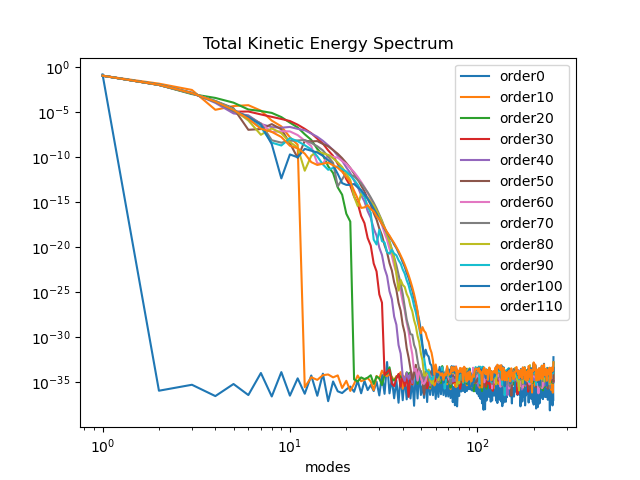
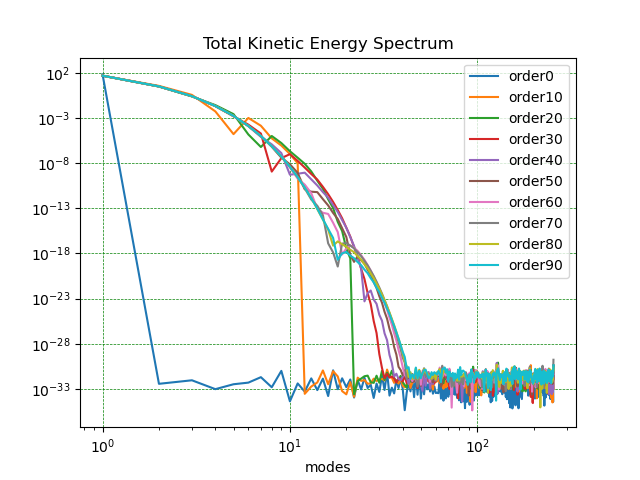
updated to proper H, h_e, Ah, etc

diff --git a/ekman_plotting_analysis.py b/ekman_plotting_analysis.py
@@ -8,12 +8,12 @@ import sys
 from scipy.fft import fft, fftfreq
 from contextlib import suppress
 
-N=120
+N=100
 nx = 512  # fourier resolution
-nz = 512  # chebyshev resolution
+nz = 68  # chebyshev resolution
 
-H = 10  # depth of water in meters
-h_e = 1 #ekman thickness
+H = 200  # depth of water in meters
+h_e = 20 #ekman thickness
 dh = h_e/H  # dh = ekman thickness divided by H
 da = 0.01  # aspect ratio = ratio of height to length
 f = 1e-4  # coriolis param in 1/s
@@ -41,7 +41,7 @@ max_vals = np.zeros(N + 1)
 for i in range(N+1):
     folder_n = 'out_' + str(i) + '_n'
 
-    with h5py.File(folder_n + '/' + folder_n + '_s1/' + folder_n + '_s1_p0.h5',
+    with h5py.File('Re_big/' + folder_n + '/' + folder_n + '_s1/' + folder_n + '_s1_p0.h5',
                    mode='r') as file:  # reading file
 
         psi_arr[i, :, :] = np.array(file['tasks']['<psi>'])  # psi
@@ -103,7 +103,7 @@ KE_total = lambda k: (fft_out(u_slice(k))[int(nx / 2 + 1):] + fft_out(w_slice(k)
 #conj_power_psi = lambda i: np.conj(np.fft.fftshift(np.fft.fftn(np.fft.ifftshift(psi_slice(i)))))
 
 
-orders_plt=np.arange(0,120,10)
+orders_plt=np.arange(0,N)
 
 #orders_plt=20
 #plt.loglog(np.arange(1, int(nx/2)), fft_out(psi_slice(orders_plt))[int(nx/2 + 1):], label='order' + str(orders_plt))
@@ -113,13 +113,17 @@ for k in orders_plt:
     #plt.loglog(np.arange(1,int(nx/2)), fft_out(zeta_slice(k))[int(nx/2 + 1):], label='order' + str(k))
     #plt.loglog(np.arange(1, int(nx / 2)), (fft_out(w_slice(k))[int(nx / 2 + 1):])/2, label='order' + str(k))
     #plt.loglog(np.arange(1, int(nx / 2)), (fft_out(u_slice(k))[int(nx / 2 + 1):]) / 2, label='order' + str(k))
-    plt.plot(np.arange(1, int(nx / 2)), KE_total(k), label='order' + str(k))
+    plt.plot(np.arange(0, 512), u_slice(k), label='order' + str(k))
+    #plt.plot(np.arange(1, int(nx / 2)), KE_total(k), label='order' + str(k))
 
     #plt.plot(np.arange(0,int(nx/2)),(DFT(psi_slice(k)) * np.conj(DFT(psi_slice(k)))))
 
-plt.yscale('log')
-plt.xlabel('modes')
-plt.title("Total Kinetic Energy Spectrum")
-plt.legend()
-plt.savefig('KE_psd_notlog')
+#plt.yscale('log')
+plt.ylabel('streamfunction strength (kg/ms)')
+plt.xlabel('x-grid points')
+plt.grid(color='green', linestyle='--', linewidth=0.5)
+#plt.title("Total Kinetic Energy Spectrum")
+plt.title("$\psi_{max}$ Horizontal Slice for orders n $\in$ [0,100]")
+#plt.legend()
+plt.savefig('KE_all')
 plt.show()

diff --git a/order_n_time_dependent_d2.py b/order_n_time_dependent_d2.py
@@ -31,8 +31,8 @@ from dedalus.extras import flow_tools
 from dedalus.tools import post
 import logging
 
-#run_folder = 'Re_big/ivp/snapshots' #for runs with no noise
-run_folder = 'Re_big/ivp/noise/snapshots'
+run_folder = 'Re_big/ivp/snapshots' #for runs with no noise
+#run_folder = 'Re_big/ivp/noise/snapshots'
 
 folder_n = run_folder
 folder_n_sub = 'snapshots'
@@ -53,8 +53,8 @@ n_core = int(1)
 nx = 512 # fourier resolution
 nz = 68  # chebyshev resolution
 
-H = 200  # depth of water in meters
-h_e = 20 #ekman thickness
+H = 100  # depth of water in meters
+h_e = 10 #ekman thickness
 dh = h_e/H  # dh = ekman thickness divided by H
 da = 0.01  # aspect ratio = ratio of height to length
 f = 1e-4  # coriolis param in 1/s
@@ -73,7 +73,7 @@ dt = 1000
 max_dt = 1e5
 min_dt = 0
 
-stop_sim_time=6 * 1e4
+stop_sim_time=4 * 1e4
 #stop_sim_time=2 * 1e4
 fh_mode = 'overwrite'
 
@@ -184,8 +184,8 @@ rand = np.random.RandomState(seed=42)
 noise = rand.standard_normal(gshape)[slices]
 zb, zt = z_basis.interval
 #v['g'][0] = 1/2 + 1/2 * (np.tanh((z-0.5)/0.1) - np.tanh((z+0.5)/0.1))
-pert = 1e-3 * noise * (zt - z) * (z - zb) #noise
-v['g'] +=  pert #adding noise to initial v
+#pert = 1e-3 * noise * (zt - z) * (z - zb) #noise
+#v['g'] +=  pert #adding noise to initial v
 
 
 # Integration parameters
